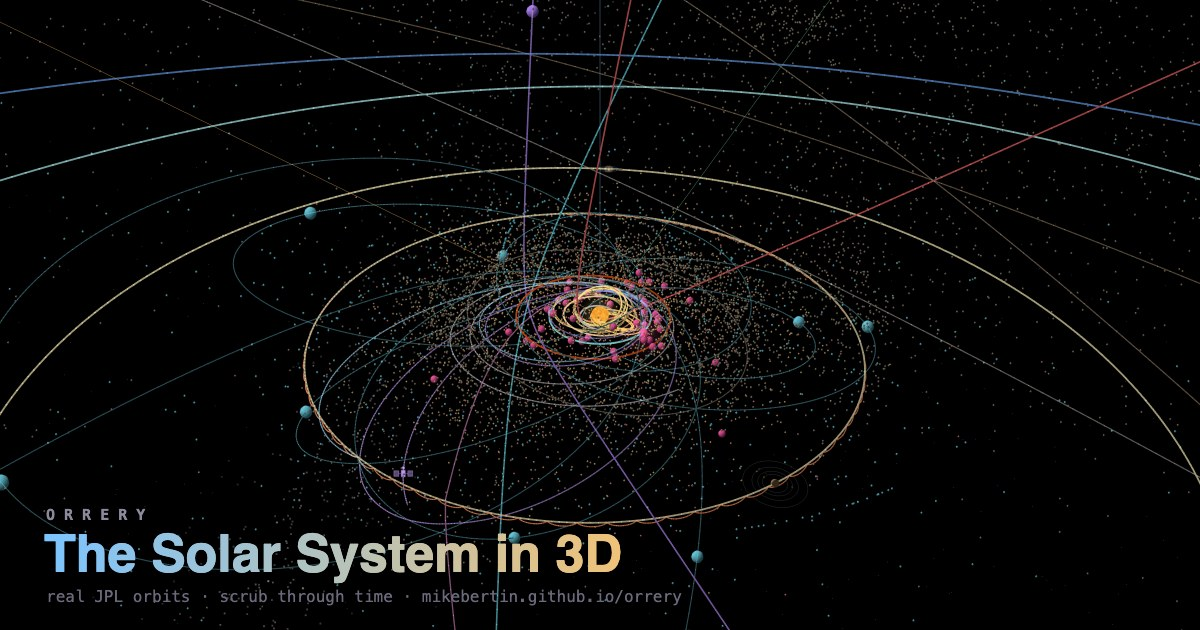
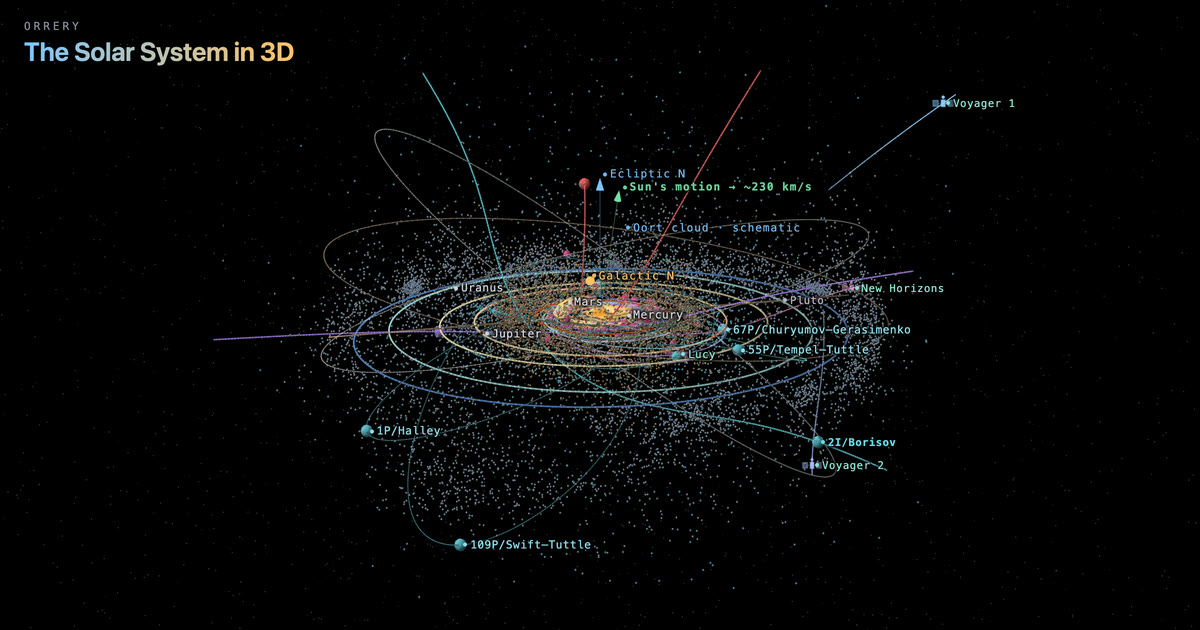
README demo GIF + fresh og.jpg; standalone README with codename origin
- web/demo.gif: ~18s 5-beat hero montage (planets at speed, the Apophis
  2029 skim, log mode + Oort halo, Saturn fly-in), 640px/12fps to stay
  under GitHub's ~10MB animation cap. Embedded at the top of README,
  linking to the live site.
- demo-capture.js: reproducible capture (Playwright + system Chrome, one
  continuous page load; ffmpeg palette recipe in the header).
- web/og.jpg: social card recaptured post-Kuiper-belt — log-mode whole
  system with labels (Voyagers, 2I/Borisov, the 30-50 AU spread), HUD
  chrome hidden.
- README stands alone: dropped cross-project references, added the Earl
  of Orrery codename origin, marked M5 shipped (OG + deploy done).
- .gitignore: STATUS.md/log.md (tracked by the parent workspace repo,
  not here) + capture leftovers (*.webm, palette.png, node_modules/).

diff --git a/demo-capture.js b/demo-capture.js
@@ -1,0 +1,104 @@
+// demo-capture.js — records web/demo.gif, the README hero montage.
+//
+// Drives the local dev server through five beats on ONE page load (no reloads,
+// so the scene, data and camera stay continuous) with Playwright + the system
+// Chrome, records one continuous .webm, and prints its filename. A second ffmpeg
+// pass turns the .webm into an optimised palette-based GIF.
+//
+// The arc: overview → planets in motion → the Apophis 2029 skim → the whole
+// system + Oort halo in log mode → an intimate fly-in to ringed Saturn.
+//
+//   # 1. dev server on :8055  (see .claude/launch.json → orrery-web)
+//   cd web && python3 -m http.server 8055
+//
+//   # 2. record the webm  (needs: npm i playwright  +  Google Chrome installed)
+//   node demo-capture.js                       # writes ./page@<hash>.webm
+//
+//   # 3. webm -> gif  (needs ffmpeg) — 1.4× speed-up, 640px wide, 12 fps.
+//   #    The full-motion 3D starfield compresses badly, so keep it small to
+//   #    stay well under GitHub's ~10 MB inline-animation cap (this lands ~8 MB).
+//   V=$(ls -t *.webm | head -1)
+//   FILT="setpts=PTS/1.4,fps=12,scale=640:-1:flags=lanczos"
+//   ffmpeg -i "$V" -vf "$FILT,palettegen=max_colors=144:stats_mode=diff" -y palette.png
+//   ffmpeg -i "$V" -i palette.png -lavfi "$FILT[x];[x][1:v]paletteuse=dither=bayer:bayer_scale=5:diff_mode=rectangle:new=1" -y web/demo.gif
+//
+// Re-record whenever the look changes; the GIF goes stale like og.jpg does.
+
+const { chromium } = require('playwright');
+
+const BASE = process.env.BASE || 'http://localhost:8055';
+const W = 1280, H = 760;
+const OUT = process.env.OUT_DIR || '.';
+
+const sleep = (ms) => new Promise(r => setTimeout(r, ms));
+
+// Click a HUD control by id and give the scene a beat to react.
+const tap = async (page, id, after = 250) => { await page.click('#' + id); await sleep(after); };
+
+// Drag across the canvas to orbit the camera (OrbitControls), dx/dy in px.
+async function orbit(page, dx, dy, ms = 1400) {
+  const box = await page.locator('#scene').boundingBox();
+  const cx = box.x + box.width / 2, cy = box.y + box.height / 2;
+  await page.mouse.move(cx, cy);
+  await page.mouse.down();
+  const steps = 40;
+  for (let i = 1; i <= steps; i++) {
+    await page.mouse.move(cx + (dx * i) / steps, cy + (dy * i) / steps);
+    await sleep(ms / steps);
+  }
+  await page.mouse.up();
+}
+
+(async () => {
+  const browser = await chromium.launch({ channel: 'chrome', headless: true });
+  const context = await browser.newContext({
+    viewport: { width: W, height: H },
+    deviceScaleFactor: 2,
+    recordVideo: { dir: OUT, size: { width: W, height: H } },
+  });
+  const page = await context.newPage();
+  page.setDefaultTimeout(12000);
+
+  // 0 — Landing hero: inner system on real orbits, everything loaded.
+  await page.goto(BASE + '/', { waitUntil: 'load' });
+  await sleep(2600);                 // let the SBDB/Horizons JSON land + settle
+  await tap(page, 'now', 300);       // clean, known "today" framing
+  await sleep(800);
+
+  // 1 — Time in motion: speed up and watch the planets sweep their orbits.
+  await tap(page, 'play', 150);      // ensure running
+  for (let i = 0; i < 4; i++) await tap(page, 'faster', 140);
+  await sleep(2600);
+  for (let i = 0; i < 2; i++) await tap(page, 'slower', 120);
+
+  // 2 — The Apophis 2029 skim: the purpose-built cinematic cue. Jumps to three
+  //     days out, focuses Apophis, plays in at 1 d/s and auto-slows at closest
+  //     approach as the asteroid threads past Earth (0.10 lunar distances).
+  await tap(page, 'apophis-demo', 300);
+  await sleep(6000);
+
+  // 3 — The whole system + its cometary halo: deselect, pull back, flip to log
+  //     distance and reveal the Oort cloud shell, then slowly orbit the view.
+  await tap(page, 'info-x', 200);
+  await tap(page, 'recenter', 600);
+  await tap(page, 'log', 700);
+  await tap(page, 'oort', 1000);     // Oort forces log mode on — the grand scale
+  await orbit(page, 240, -36, 2000);
+  await sleep(400);
+
+  // 4 — Intimate detail: back to real distances and fly in to ringed Saturn —
+  //     procedural texture, axial tilt, sidereal spin, day/night terminator.
+  await tap(page, 'oort', 250);
+  await tap(page, 'log', 600);
+  await page.fill('#search', 'Saturn');
+  await sleep(350);
+  await page.press('#search', 'Enter');
+  await sleep(3400);
+
+  await context.close();             // finalizes the video
+  await browser.close();
+
+  const fs = require('fs');
+  const vids = fs.readdirSync(OUT).filter(f => f.endsWith('.webm'));
+  console.log('VIDEO:', vids.join(', '));
+})();

diff --git a/README.md b/README.md
@@ -2,13 +2,21 @@
 
 A live, scrubable 3D model of everything we can track in the solar system,
 plotted from real orbital data. Vanilla + Three.js, ships static to GitHub
-Pages. Sister project to **Lynceus** (JWST galaxy ML).
+Pages.
 
 **▶ Live: [mikebertin.github.io/orrery](https://mikebertin.github.io/orrery/)** —
 try [the Apophis 2029 flyby](https://mikebertin.github.io/orrery/#2029-04-13/Apophis)
 or [Halley's return](https://mikebertin.github.io/orrery/#2061-07-28/1P%2FHalley).
 
-> An *orrery* is a mechanical model of the solar system. This is the software one.
+> **Why "Orrery"?** An *orrery* is a clockwork model of the solar system —
+> planets on brass arms, geared to sweep their orbits at true relative speed.
+> The first modern one was built around 1704 by clockmakers George Graham and
+> Thomas Tompion; when instrument maker John Rowley copied it for his patron
+> Charles Boyle, 4th **Earl of Orrery**, the device took the earl's title (a
+> barony in County Cork, Ireland) as its name. This is the software one — the
+> brass arms are JPL orbital elements, and the gears are a time engine.
+
+[![The planets sweeping their orbits, the Apophis 2029 skim past Earth, the whole system and its Oort halo in log mode, and a fly-in to ringed Saturn](web/demo.gif)](https://mikebertin.github.io/orrery/)
 
 ## The "static site + real-time data" trick
 
@@ -32,7 +40,7 @@ this can't do is sub-second live tracking — meaningless at AU scale anyway.
 2. **Architecture:** static site on Pages; a scheduled GitHub Action is the
    "backend" that fetches live data into committed JSON. No runtime server.
 3. **Time:** full time-scrubber (rewind / fast-forward / jump-to-date / now).
-4. **Stack:** vanilla JS + Three.js (CDN), no framework. Chiron/Hermes house style.
+4. **Stack:** vanilla JS + Three.js (CDN), no framework.
 5. **Codename:** Orrery.
 
 ## Milestones
@@ -66,16 +74,17 @@ this can't do is sub-second live tracking — meaningless at AU scale anyway.
   leader line back to it. Client draws each craft's trajectory **trail** + a marker that
   interpolates between samples and appears only within its data window.
   `spacecraft` toggle.
-- **M5 — polish & ship** *(in progress)*: ✅ label collision-avoidance
+- **M5 — polish & ship** ✅ *(shipped)*: ✅ label collision-avoidance
   (priority-ranked, focused always wins), ✅ search / go-to box with smooth
   camera fly-to, ✅ JPL data credit, ✅ **data-freshness chip** (HUD shows the
   oldest `generated` stamp among the loaded JSONs, and calls out any layer
   whose fetch failed), ✅ **shareable URLs** (`#YYYY-MM-DD/Body`, e.g.
   `#2029-04-13/Apophis` — restores the date paused and flies to the body),
   ✅ **Apophis demo button** in the approaches panel (cues the 2029 pass:
-  jumps 3 days out, focuses, plays at 1 d/s). Remaining: OG image and **deploy
-  to `mikebertin.github.io/orrery`** (init repo + push so the data Actions
-  start running).
+  jumps 3 days out, focuses, plays at 1 d/s), ✅ OG social card + README demo
+  GIF (regenerate with [demo-capture.js](demo-capture.js)), ✅ **deployed to
+  [mikebertin.github.io/orrery](https://mikebertin.github.io/orrery/)** with
+  the data Actions running on schedule.
 - **Kuiper belt** ✅ *(built)*: ~6,400 trans-Neptunian objects from JPL SBDB
   (`sb-class=TNO`) through the same element→point-cloud pipeline as the
   asteroids — the icy ring at 30–50 AU plus the scattered disc, finally